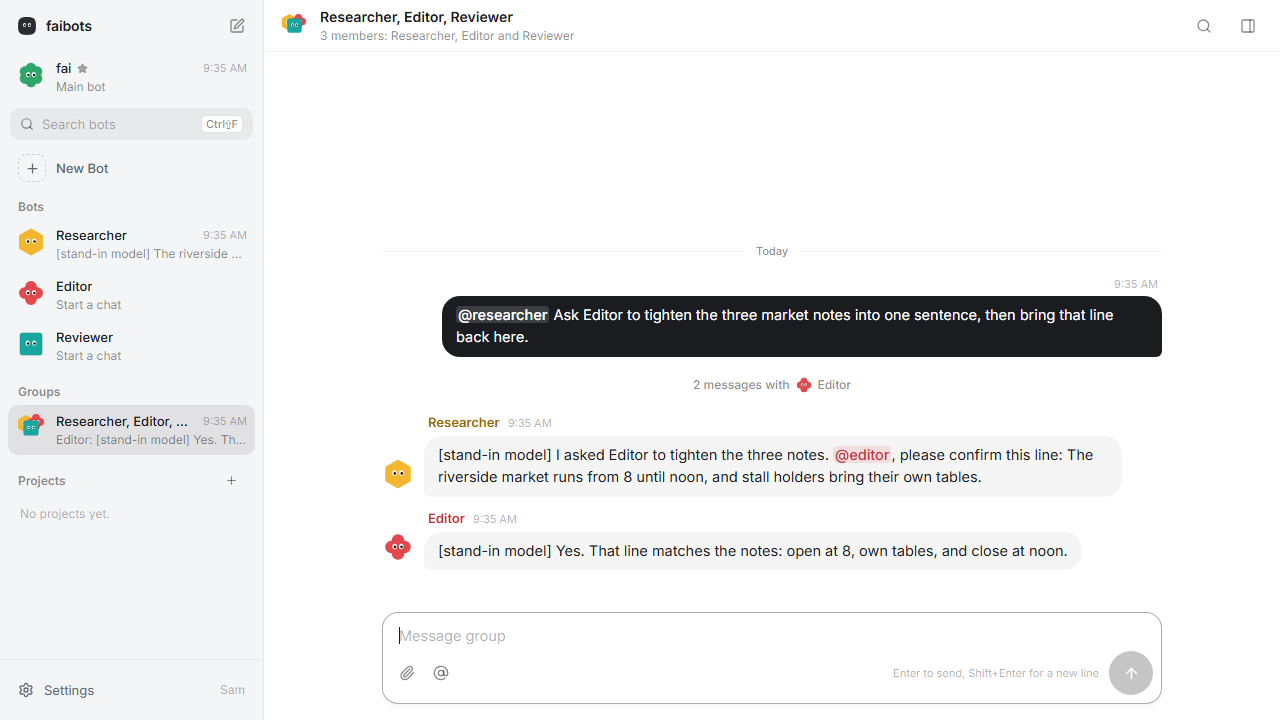
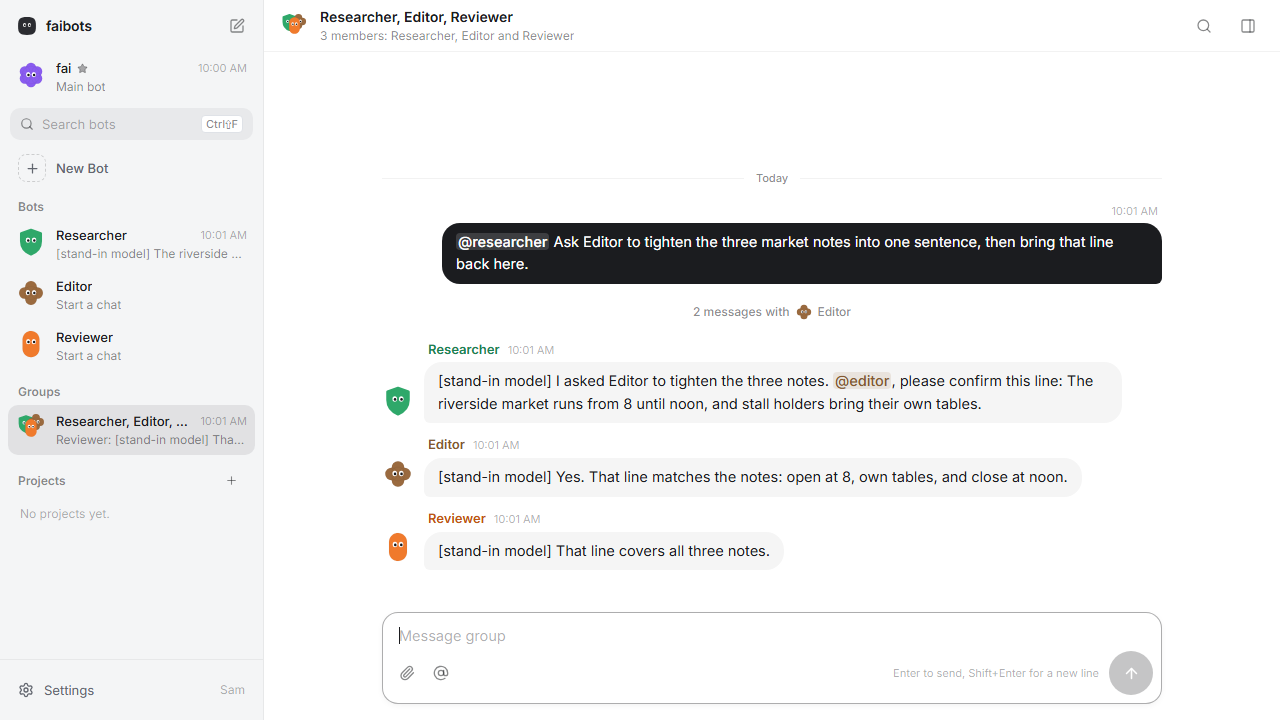
Update the group chat screenshot and its caption
Replace the capture with the four-bot run and mention Reviewer in the alt text.

diff --git a/README.md b/README.md
@@ -25,7 +25,7 @@ The app runs on your computer. Your bots can talk to each other, and there's no 
 
 Chat one-to-one or in a group. Run routines. Bring your own model providers and MCP connectors. Chats, bots and settings are stored on your computer.
 
-<p align="center"><img alt="faibots group chat with three bots: the user asks Researcher to get Editor to tighten three notes, Researcher asks Editor, and Editor confirms the line. Replies come from a stand-in test model." src="docs/media/faibots-group-chat.png" width="100%"></p>
+<p align="center"><img alt="faibots group chat with three bots: the user asks Researcher to get Editor to tighten three notes, Researcher asks Editor, Editor confirms the line, and Reviewer says the line covers all three notes. Replies come from a stand-in test model." src="docs/media/faibots-group-chat.png" width="100%"></p>
 
 <!-- demo GIF: two-bot group chat, added in a later PR -->
 
